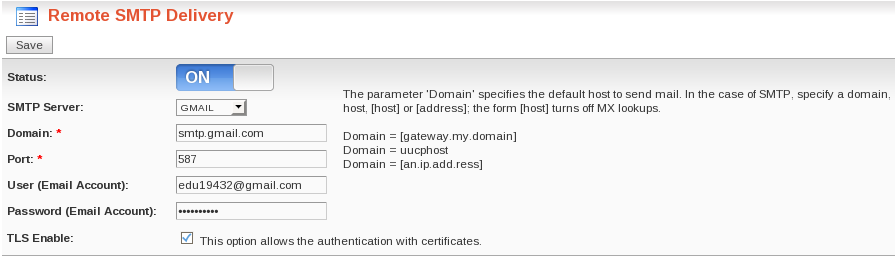
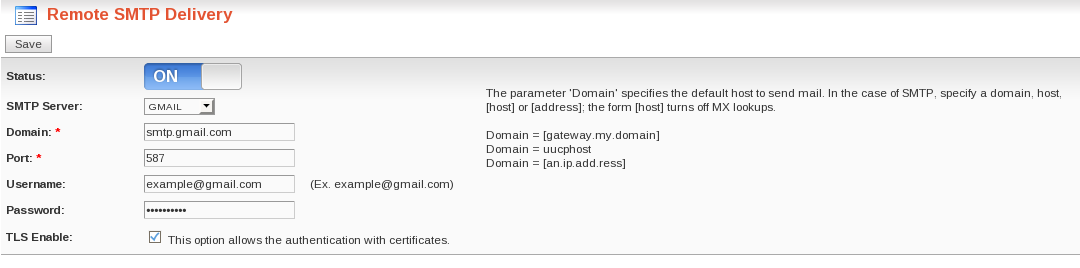
CHANGED: Email - Remote SMTP:  Add label as example: username@domain.com and change the image of help. Change labels user (Email Account) password (Email Account) to Username and Password

diff --git a/modules/trunk/core/email_admin/modules/remote_smtp/themes/default/js/remote.js b/modules/trunk/core/email_admin/modules/remote_smtp/themes/default/js/remote.js
@@ -23,6 +23,8 @@ $(document).ready(function(){
 
     $('#SMTP_Server').change(function(){
         var server = $('#SMTP_Server option:selected').text();
+        var example = "";
+
         if(server=="GMAIL" || server=="HOTMAIL"){
             $('input[name=chkoldautentification]').attr("checked", "checked");
             $('#autentification').val("on");
@@ -30,6 +32,11 @@ $(document).ready(function(){
             $('input[name=chkoldautentification]').removeAttr("checked");
             $('#autentification').val("off");
         }
+        if(server=="GMAIL" || server=="HOTMAIL" || server=="YAHOO")
+            example = "example@"+server.toLowerCase()+".com";
+        else
+            example = "example@domain.com";
+        $('#example').text(example);
     });
 });
 
@@ -46,9 +53,11 @@ function setSelectedDomain(){
         if(/smtp\.live\.com/.test(dominio))
             server = "HOTMAIL";
 
-        if(relay==server)
+        if(relay==server){
+            var example = "example@"+server.toLowerCase()+".com";
             $(this).attr("selected", "selected");
-        else
+            $('#example').text(example);
+        }else
             $(this).removeAttr("selected");
 
     });

diff --git a/modules/trunk/core/email_admin/modules/remote_smtp/index.php b/modules/trunk/core/email_admin/modules/remote_smtp/index.php
@@ -103,6 +103,8 @@ function viewFormEmailRelay($smarty, $module_name, $local_templates_dir, &$pDB, 
     $smarty->assign("MSG_REMOTE_SMTP",$arrLang['Message Remote SMTP Server']);
     $smarty->assign("MSG_REMOTE_AUT",$arrLang['Message Remote Autentification']);
     $smarty->assign("IMG", "images/list.png");
+    $smarty->assign("Example",$arrLang["Ex"]);
+    $smarty->assign("lbldomain",$arrLang["Domain"]);
 
     $arrFormEmailRelay = createFieldForm($arrLang);
     $oForm = new paloForm($smarty,$arrFormEmailRelay);
@@ -200,14 +202,14 @@ function createFieldForm($arrLang)
                                             "VALIDATION_TYPE"        => "numeric",
                                             "VALIDATION_EXTRA_PARAM" => ""
                                             ),
-            "user"         => array(        "LABEL"                  => $arrLang["User (Email Account)"],
+            "user"         => array(        "LABEL"                  => $arrLang["Username"],
                                             "REQUIRED"               => "no",
                                             "INPUT_TYPE"             => "TEXT",
                                             "INPUT_EXTRA_PARAM"      => "",
                                             "VALIDATION_TYPE"        => "text",
                                             "VALIDATION_EXTRA_PARAM" => ""
                                             ),
-            "password"     => array(        "LABEL"                  => $arrLang["Password (Email Account)"],
+            "password"     => array(        "LABEL"                  => $arrLang["Password"],
                                             "REQUIRED"               => "no",
                                             "INPUT_TYPE"             => "PASSWORD",
                                             "INPUT_EXTRA_PARAM"      => "",
